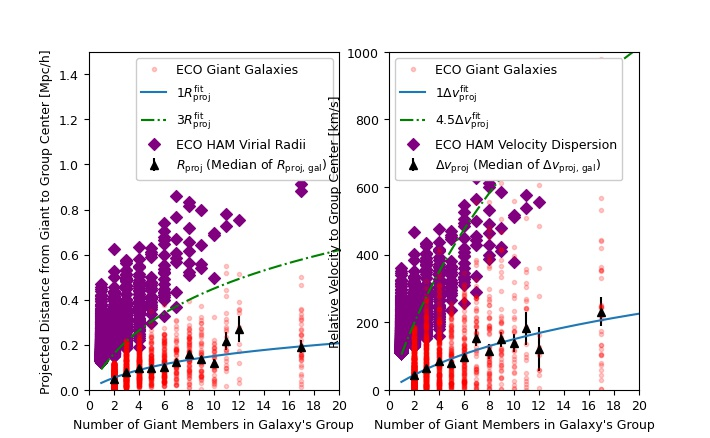
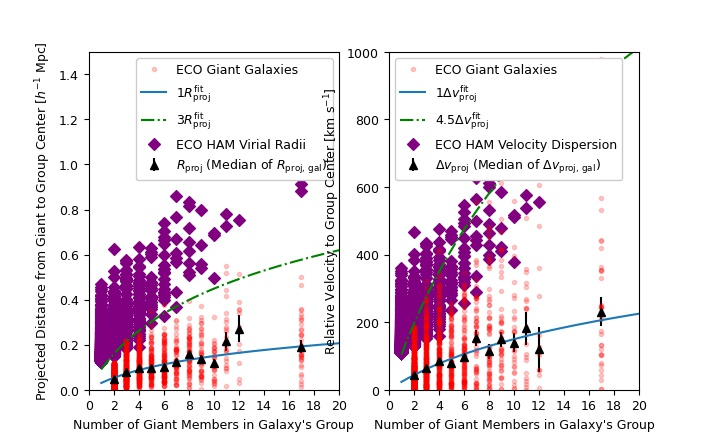
updating figures for paper

Changed region(s): [[0.031, 0.089, 0.093, 0.9201], [0.4338, 0.2078, 0.4958, 0.8014]]

diff --git a/create_ecoresolve_luminosityselgroups.py b/create_ecoresolve_luminosityselgroups.py
@@ -165,15 +165,15 @@ if __name__=='__main__':
     resbg3grp[resbgiantsel] = resbgiantfofid
  
     # (e) check the FOF results
-    plt.figure(figsize=(singlecolsize[0],1.1*singlecolsize[0]))
-    binv = np.arange(0.5,3000.5,3)
+    plt.figure(figsize=(singlecolsize[0],1.1*singlecolsize[1]))
+    binv = np.arange(0.5,100.5,1)
     plt.hist(fof.multiplicity_function(ecog3grp[ecog3grp!=-99.], return_by_galaxy=False), bins=binv, histtype='step', linewidth=3, label='ECO', color='palegreen')
     plt.hist(fof.multiplicity_function(resbg3grp[resbg3grp!=-99.], return_by_galaxy=False), bins=binv, histtype='step', linewidth=1.5, hatch='\\', label='RESOLVE-B', color='k')
     plt.xlabel("Number of Giant Galaxies per Group")
     plt.ylabel("Number of Giant-Only Groups")
     plt.yscale('log')
     plt.legend(loc='best')
-    plt.xlim(0,80)
+    plt.xlim(0,30)
     plt.tight_layout()
     plt.savefig("images/giantonlymult.jpg")
     plt.savefig("paper1plots/giantonlymult.pdf")
@@ -225,7 +225,7 @@ if __name__=='__main__':
     ax1.set_ylim(0,1000)
     ax1.set_xticks(np.arange(0,22,2))
     ax1.set_xlabel("Number of Giant Members in Galaxy's Group")
-    ax1.set_ylabel("Relative Velocity to Group Center [km/s]")
+    ax1.set_ylabel(r"Relative Velocity to Group Center [km s$^{-1}$]")
     ax1.legend(loc='best', framealpha=1)
 
     ax.scatter(gihalon, gihalorvir, marker='D', color='purple', label=r'ECO HAM Virial Radii', rasterized=True)
@@ -234,7 +234,7 @@ if __name__=='__main__':
     ax.plot(tx, giantmodel(tx, *poptrproj), label=r'$1R_{\rm proj}^{\rm fit}$', rasterized=True)
     ax.plot(tx, 3*giantmodel(tx, *poptrproj), 'g', label=r'$3R_{\rm proj}^{\rm fit}$', linestyle='-.', rasterized=True)
     ax.set_xlabel("Number of Giant Members in Galaxy's Group")
-    ax.set_ylabel("Projected Distance from Giant to Group Center [Mpc/h]")
+    ax.set_ylabel(r"Projected Distance from Giant to Group Center [$h^{-1}$ Mpc]")
     ax.legend(loc='best', framealpha=1)
     ax.set_xlim(0,20)
     ax.set_ylim(0,1.5)
@@ -295,26 +295,28 @@ if __name__=='__main__':
 
     tx = np.linspace(-27,-17,100)
     fig, (ax,ax1) = plt.subplots(ncols=2, figsize=doublecolsize)
-    ax.plot(ecogdtotalmag[binsel], ecogdrelprojdist[binsel], 'k.', alpha=0.2, label='ECO Galaxies in N>1 Giant+Dwarf Groups', rasterized=True)
-    ax.errorbar(magbincenters, gdmedianrproj, yerr=gdmedianrproj_err, fmt='r^', label='Medians', rasterized=True)
-    ax.plot(tx, 1*decayexp(tx,*poptr), label='Fit to Medians', rasterized=True)
-    ax.plot(tx, 3*decayexp(tx,*poptr), label=r'3 times Fit to Medians', rasterized=True)
+    ax.plot(ecogdtotalmag[binsel], ecogdrelprojdist[binsel], '.', alpha=0.2, label='ECO Galaxies', rasterized=True, color='palegreen')
+    ax.errorbar(magbincenters, gdmedianrproj, yerr=gdmedianrproj_err, fmt='k^', label=r'Medians ($R_{\rm proj}^{\rm gi,\,dw}$)', rasterized=True, zorder=15)
+    ax.plot(tx, 1*decayexp(tx,*poptr), label=r'$R_{\rm proj,\,fit}^{\rm gi,\, dw}$', rasterized=True)
+    ax.plot(tx, 3*decayexp(tx,*poptr), label=r'$3R_{\rm proj,\,fit}^{\rm gi,\, dw}$', rasterized=True)
     ax.set_xlabel(r"Integrated $M_r$ of Giant + Dwarf Members")
-    ax.set_ylabel("Projected Distance from Galaxy to Group Center [Mpc/h]")
+    ax.set_ylabel(r"Group Relative Projected Radius [$h^{-1}$ Mpc]")
     ax.legend(loc='best')
     ax.set_xlim(-25,-19)
-    ax.set_ylim(0,1.3)
+    ax.set_ylim(0,0.8)
     ax.invert_xaxis()
 
-    ax1.plot(ecogdtotalmag[binsel], ecogdrelvel[binsel], 'k.', alpha=0.2, label='Mock Galaxies in N=2 Giant+Dwarf Groups', rasterized=True)
-    ax1.errorbar(magbincenters, gdmedianrelvel, yerr=gdmedianrelvel_err, fmt='r^',label='Medians', rasterized=True)
-    ax1.plot(tx, decayexp(tx, *poptv), label='Fit to Medians', rasterized=True)
-    ax1.plot(tx, 4.5*decayexp(tx, *poptv), label='4.5 times Fit to Medians', rasterized=True)
-    ax1.set_ylabel("Relative Velocity between Galaxy and Group Center")
+    ax1.plot(ecogdtotalmag[binsel], ecogdrelvel[binsel], '.', alpha=0.2, label='ECO Galaxies', rasterized=True, color='palegreen')
+    ax1.errorbar(magbincenters, gdmedianrelvel, yerr=gdmedianrelvel_err, fmt='k^',label=r'Medians ($\Delta v_{\rm proj}^{\rm gi,\,dw}$)', rasterized=True, zorder=15)
+    ax1.plot(tx, decayexp(tx, *poptv), label=r'$\Delta v_{\rm proj,\, fit}^{\rm gi,\, dw}$', rasterized=True)
+    ax1.plot(tx, 4.5*decayexp(tx, *poptv), label=r'$4.5\Delta v_{\rm proj,\, fit}^{\rm gi,\, dw}$', rasterized=True)
+    ax1.set_ylabel(r"Group Relative Velocity [km s$^{-1}]$")
     ax1.set_xlabel(r"Integrated $M_r$ of Giant + Dwarf Members")
     ax1.set_xlim(-25,-19)
-    ax1.set_ylim(0,1000)
+    ax1.set_ylim(0,800)
     ax1.invert_xaxis()
+    ax1.legend(loc='best')
+    plt.tight_layout()
     plt.savefig("paper1plots/itercombboundaries.pdf")
     plt.show()
 
@@ -401,10 +403,10 @@ if __name__=='__main__':
     #plt.hist(fof.multiplicity_function(resbitassocid, return_by_galaxy=False), log=True, histtype='step')
     #plt.show()
     
-    fig, ax = plt.subplots(figsize=singlecolsize)
+    fig, ax = plt.subplots(figsize=(singlecolsize[0], 1.25*singlecolsize[1]))
     binv = np.arange(0.5,1200.5,3)
-    ax.hist(fof.multiplicity_function(ecog3grp[ecog3grp!=-99.], return_by_galaxy=False), bins=binv, log=True, label='ECO Groups', histtype='step', linewidth=3)
-    ax.hist(fof.multiplicity_function(resbg3grp[resbg3grp!=-99.], return_by_galaxy=False), bins=binv, log=True, label='RESOLVE-B Groups', histtype='step', hatch='\\')
+    ax.hist(fof.multiplicity_function(ecog3grp[ecog3grp!=-99.], return_by_galaxy=False), bins=binv, log=True, label='ECO Groups', histtype='step', linewidth=3, color='palegreen')
+    ax.hist(fof.multiplicity_function(resbg3grp[resbg3grp!=-99.], return_by_galaxy=False), bins=binv, log=True, label='RESOLVE-B Groups', histtype='step', hatch='\\', color='k')
     ax.set_xlabel("Number of Giant + Dwarf Group Members")
     ax.set_ylabel("Number of Groups")
     ax.legend(loc='best')
@@ -412,17 +414,18 @@ if __name__=='__main__':
 
     ax2 = plt.axes([0,0,1,1])
     # Manually set the position and relative size of the inset axes within ax1
-    ip = InsetPosition(ax, [0.4,0.3,0.5,0.5])
+    ip = InsetPosition(ax, [0.4,0.25,0.5,0.35])
     ax2.set_axes_locator(ip)
     # Mark the region corresponding to the inset axes on ax1 and draw lines
     # in grey linking the two axes.
     #mark_inset(ax1, ax2, loc1=2, loc2=4, fc="none", ec='0.5')
 
     binvd = np.arange(0.5,10.5,1)
-    ax2.hist(fof.multiplicity_function(ecoitassocid, return_by_galaxy=False), bins=binvd, log=True, label='ECO Groups', histtype='step', linewidth=3)
-    ax2.hist(fof.multiplicity_function(resbitassocid, return_by_galaxy=False), bins=binvd, log=True, label='RESOLVE-B Groups', histtype='step', hatch='\\')
+    ax2.hist(fof.multiplicity_function(ecoitassocid, return_by_galaxy=False), bins=binvd, log=True, label='ECO Groups', histtype='step', linewidth=3, color='palegreen')
+    ax2.hist(fof.multiplicity_function(resbitassocid, return_by_galaxy=False), bins=binvd, log=True, label='RESOLVE-B Groups', histtype='step', hatch='\\', color='k')
     ax2.set_xlim(0,5)
-    ax2.set_title('Dwarf-Only Groups')
+    ax2.set_title('Dwarf-Only Groups', fontsize=9)
+    plt.tight_layout()
     plt.savefig("paper1plots/multfunc_doinset.pdf")
     plt.show()
     ############################################################
@@ -459,13 +462,14 @@ if __name__=='__main__':
 
     ecointmag = ic.get_int_mag(ecoabsrmag[ecohamsel], ecog3grp[ecohamsel])
     plt.figure(figsize=singlecolsize)
-    plt.plot(ecointmag, ecog3logmh[ecog3grp!=-99.], '.', color='palegreen', alpha=0.6, label='ECO', markersize=11)
-    plt.plot(resbintmag, resbg3logmh[resbg3grp!=-99.], 'k.', alpha=1, label='RESOLVE-B', markersize=3)
+    plt.plot(ecointmag, ecog3logmh[ecog3grp!=-99.], '.', color='palegreen', alpha=0.6, label='ECO', markersize=11, rasterized=True)
+    plt.plot(resbintmag, resbg3logmh[resbg3grp!=-99.], 'k.', alpha=1, label='RESOLVE-B', markersize=3, rasterized=True)
     #plt.plot
     plt.xlabel("group-integrated r-band luminosity")
     plt.ylabel(r"group halo mass (log$M_\odot$)")
     plt.legend(loc='best')
     plt.gca().invert_xaxis()
+    plt.tight_layout()
     plt.savefig("images/hamLrrelation.jpeg")
     plt.savefig("paper1plots/hamLrrelationG3.pdf")
     plt.show()
